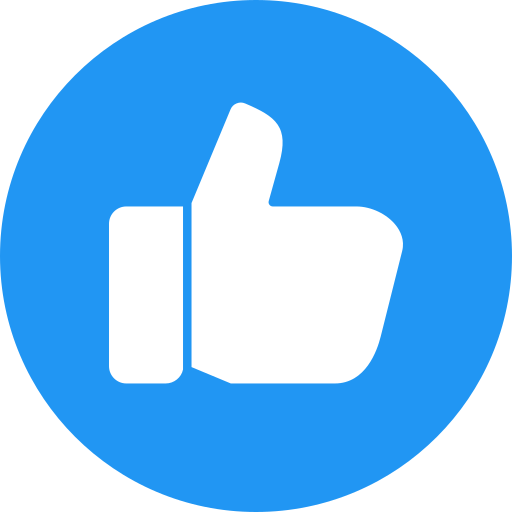
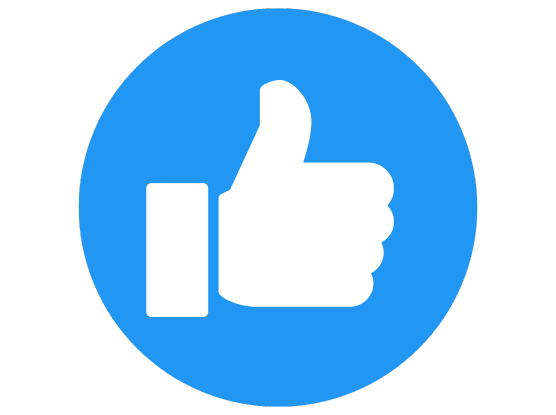
Dislikes working

diff --git a/website/sv/src/SVKasten/SVKasten.js b/website/sv/src/SVKasten/SVKasten.js
@@ -2,27 +2,69 @@ import React, { useState, useEffect } from 'react';
 import './SVKasten.css';
 import { db } from '../config/firebase';
 import { collection, addDoc, getDocs, updateDoc, doc, getDoc, setDoc, deleteDoc } from 'firebase/firestore';
-import { getAuth, signInAnonymously, onAuthStateChanged } from 'firebase/auth';
+import { getAuth } from 'firebase/auth';
 import Cookies from 'js-cookie';
 import { gsap } from 'gsap';
-/*import plane from 'Public/SVKasten/Paper.png';*/
 
 export default function SVKasten() {
-  const [text, setText] = useState('');
-  const [isPublic, setIsPublic] = useState(false);
-  const [messages, setMessages] = useState([]);
-  const [isAdminOrDeveloper, setIsAdminOrDeveloper] = useState(false);
-  const auth = getAuth();
+  const [text, setText] = useState(''); 
+  const [isPublic, setIsPublic] = useState(false); 
+  const [messages, setMessages] = useState([]); 
+  let [isAdminOrDeveloper, setIsAdminOrDeveloper] = useState(false); 
+  const [userLikes, setUserLikes] = useState({}); // Store user's like/dislike state
+  const auth = getAuth(); 
 
   useEffect(() => {
     const fetchMessages = async () => {
       const querySnapshot = await getDocs(collection(db, 'messages'));
       const fetchedMessages = querySnapshot.docs.map((doc) => ({ ...doc.data(), id: doc.id }));
       setMessages(fetchedMessages.filter(message => message.isPublic));
+  
+      if (auth.currentUser) {
+        const userId = auth.currentUser.uid;
+        await fetchUserLikes(userId, fetchedMessages.map(msg => msg.id));
+        await checkUserRoles(userId);
+      }
     };
-
+  
+    const checkUserRoles = async (userId) => {
+      const docRef = doc(db, "users", userId);
+      const docSnap = await getDoc(docRef);
+  
+      if (docSnap.exists()) {
+        const data = docSnap.data();
+        const isAdmin = data.isAdmin || false;
+        const isDeveloper = data.isDeveloper || false;
+        setIsAdminOrDeveloper(isAdmin || isDeveloper);
+      } else {
+        setIsAdminOrDeveloper(false);
+      }
+    };
+  
     fetchMessages();
-  }, []);
+  }, [auth.currentUser]);
+  const fetchUserLikes = async (userId, messageIds) => {
+    const likesSnapshot = await getDocs(collection(db, 'likes'));
+    const dislikesSnapshot = await getDocs(collection(db, 'dislikes'));
+    
+    let likesData = {};
+    
+    likesSnapshot.forEach((doc) => {
+      const { userId: likeUserId, messageId } = doc.data();
+      if (messageIds.includes(messageId) && likeUserId === userId) {
+        likesData[messageId] = 'liked';
+      }
+    });
+    
+    dislikesSnapshot.forEach((doc) => {
+      const { userId: dislikeUserId, messageId } = doc.data();
+      if (messageIds.includes(messageId) && dislikeUserId === userId) {
+        likesData[messageId] = 'disliked';
+      }
+    });
+
+    setUserLikes(likesData);
+  };
 
   const handleChange = (event) => {
     setText(event.target.value);
@@ -35,9 +77,10 @@ export default function SVKasten() {
           text: text,
           timestamp: new Date(),
           isPublic: isPublic,
-          likes: 0
+          likes: 0,
+          dislikes: 0,
         });
-        Cookies.set('message', text, {expires: 7});
+        Cookies.set('message', text, { expires: 7 });
 
         gsap.to('.button-36', {
           opacity: 0,
@@ -59,7 +102,7 @@ export default function SVKasten() {
             });
           }
         });
-    
+
         gsap.to('.plane', {
           y: '-500px',
           x: '70vw',
@@ -100,33 +143,120 @@ export default function SVKasten() {
     }
   };
 
-  const handleLike = async (messageId, currentLikes) => {
+  const handleLike = async (messageId) => {
     const userId = auth.currentUser?.uid;
-  
+    const likeRef = doc(db, 'likes', `${userId}_${messageId}`);
+    const dislikeRef = doc(db, 'dislikes', `${userId}_${messageId}`); 
+
     if (userId) {
-      const likeRef = doc(db, 'likes', `${userId}_${messageId}`);
       const likeDoc = await getDoc(likeRef);
-  
+      const dislikeDoc = await getDoc(dislikeRef);
+      const messageRef = doc(db, 'messages', messageId);
+      const message = messages.find(msg => msg.id === messageId);
+      
       if (likeDoc.exists()) {
-        alert('Du hast diese Nachricht bereits geliket.');
-        return;
+        await updateDoc(messageRef, { likes: message.likes - 1 });
+        await deleteDoc(likeRef);
+        setMessages((prevMessages) =>
+          prevMessages.map((msg) =>
+            msg.id === messageId
+              ? { ...msg, likes: msg.likes - 1 }
+              : msg
+          )
+        );
+      } else {
+        if (dislikeDoc.exists()) {
+          await updateDoc(messageRef, { dislikes: message.dislikes - 1 });
+          await deleteDoc(dislikeRef);
+          setMessages((prevMessages) =>
+            prevMessages.map((msg) =>
+              msg.id === messageId
+                ? { ...msg, dislikes: msg.dislikes - 1 }
+                : msg
+            )
+          );
+        }
+        await updateDoc(messageRef, { likes: message.likes + 1 });
+        await setDoc(likeRef, { userId, messageId });
+        setMessages((prevMessages) =>
+          prevMessages.map((msg) =>
+            msg.id === messageId
+              ? { ...msg, likes: msg.likes + 1 }
+              : msg
+          )
+        );
       }
   
-      const messageRef = doc(db, 'messages', messageId);
-      await updateDoc(messageRef, { likes: currentLikes + 1 });
-  
-      await setDoc(likeRef, { userId, messageId });
-  
-      setMessages(prevMessages =>
-        prevMessages.map(msg =>
-          msg.id === messageId ? { ...msg, likes: currentLikes + 1 } : msg
-        )
-      );
-    } else {
-      alert('Bitte melde dich an, um zu liken.');
+      gsap.to(`#like-${messageId}`, { 
+        scale: 1.2, 
+        duration: 0.2, 
+        ease: 'power1.out',
+        onComplete: () => {
+          document.querySelector(`#like-${messageId}`).src = likeDoc.exists() ? './not_liked2.png' : './like.png';
+          document.querySelector(`#dislike-${messageId}`).src = './not_liked.png';
+          gsap.to(`#like-${messageId}`, { scale: 1, duration: 0.2 });
+        }
+      });
     }
   };
 
+  const handleDislike = async (messageId) => {
+    const userId = auth.currentUser?.uid;
+    const dislikeRef = doc(db, 'dislikes', `${userId}_${messageId}`);
+    const likeRef = doc(db, 'likes', `${userId}_${messageId}`);
+
+    if (userId) {
+      const dislikeDoc = await getDoc(dislikeRef);
+      const likeDoc = await getDoc(likeRef);
+      const messageRef = doc(db, 'messages', messageId);
+      const message = messages.find(msg => msg.id === messageId);
+
+      if (dislikeDoc.exists()) {
+        await updateDoc(messageRef, { dislikes: message.dislikes - 1 });
+        await deleteDoc(dislikeRef);
+        setMessages((prevMessages) =>
+          prevMessages.map((msg) =>
+            msg.id === messageId
+              ? { ...msg, dislikes: msg.dislikes - 1 }
+              : msg
+          )
+        );
+      } else {
+        if (likeDoc.exists()) {
+          await updateDoc(messageRef, { likes: message.likes - 1 });
+          await deleteDoc(likeRef);
+          setMessages((prevMessages) =>
+            prevMessages.map((msg) =>
+              msg.id === messageId
+                ? { ...msg, likes: msg.likes - 1 }
+                : msg
+            )
+          );
+        }
+        await updateDoc(messageRef, { dislikes: message.dislikes + 1 });
+        await setDoc(dislikeRef, { userId, messageId });
+        setMessages((prevMessages) =>
+          prevMessages.map((msg) =>
+            msg.id === messageId
+              ? { ...msg, dislikes: msg.dislikes + 1 }
+              : msg
+          )
+        );
+      }
+
+      gsap.to(`#dislike-${messageId}`, { 
+        scale: 1.2, 
+        duration: 0.2, 
+        ease: 'power1.out',
+        onComplete: () => {
+          document.querySelector(`#dislike-${messageId}`).src = dislikeDoc.exists() ? './not_liked.png' : './dislike.png';
+          document.querySelector(`#like-${messageId}`).src = './not_liked2.png';
+          gsap.to(`#dislike-${messageId}`, { scale: 1, duration: 0.2 });
+        }
+      });
+    }
+  };
+  
   const handleDeleteMessage = async (messageId) => {
     try {
       await deleteDoc(doc(db, 'messages', messageId));
@@ -177,11 +307,8 @@ export default function SVKasten() {
               </label>
             </div>
             <div className='gap123'></div>
-            <button className="button-36" role="button" onClick={handleClick}>Senden
-              
-            </button>
+            <button className="button-36" role="button" onClick={handleClick}>Senden</button>
             <img src={`${process.env.PUBLIC_URL}/Paper.png`} alt='Paper Plane' className='plane' />
-
           </div>
   
           <div className="oeffentlich_nach">
@@ -189,17 +316,21 @@ export default function SVKasten() {
               Nachichten Keine ahnung
             </div>
             {messages
-              .sort((a, b) => b.likes - a.likes) // Sortiere nachihten nach wer die meisten likes hat ich habe keine ahnung was diese funktion ist zumgluck gibt es GOOGLE
+              .sort((a, b) => b.likes - a.likes)
               .map((message) => (
                 <div key={message.id} className="message1234">
                   <p>{message.text}</p>
                   <div className='likecon'>
-                    <button className='btslike' onClick={() => handleLike(message.id, message.likes)}>
-                      <img src='./like.png' className='like' alt='Like'/> {message.likes}
+                    <button className='btslike' onClick={() => handleLike(message.id)}>
+                      <img id={`like-${message.id}`} src={userLikes[message.id] === 'liked' ? './like.png' : './not_liked2.png'} className='like2' alt='Like'/> {message.likes}
                     </button>
-                    {isAdminOrDeveloper && (
-                      <button onClick={() => handleDeleteMessage(message.id)}>Löschen</button>
-                    )}
+                    <button className='btslike' onClick={() => handleDislike(message.id)}>
+                      <img id={`dislike-${message.id}`} src={userLikes[message.id] === 'disliked' ? './dislike.png' : './not_liked.png'} className='dislike' alt='Dislike'/> {message.dislikes || 0}
+                    </button>
+                    {console.log("isAdminOrDeveloper:", isAdminOrDeveloper)} 
+{isAdminOrDeveloper && (
+  <button onClick={() => handleDeleteMessage(message.id)}>Löschen</button>
+)}
                   </div>
                 </div>
               ))}
@@ -208,4 +339,4 @@ export default function SVKasten() {
       </div>
     </>
   );
-}  
+}

diff --git a/website/sv/src/SVKasten/SVKasten.css b/website/sv/src/SVKasten/SVKasten.css
@@ -71,10 +71,6 @@
     transform: translate(20px);
     height: 50%;
 }
-.like {
-    height: 40px !important;
-    width: 40px !important;
-}
 .head {
     font-size: 2.1rem;
     font-weight: 800;
@@ -315,4 +311,22 @@ label > input {
     .input_real {
         width: 100% !important;
     }
+}
+.dislike {
+    height: 45px;
+}
+.likecon {
+    display: flex;
+    margin-bottom: 5px;
+}
+.likecon > img {
+    height: 40px !important;
+    width: 40px !important;
+}
+.like2 {
+    width: 60px;
+    height: 44px;
+}
+.like {
+    width: 30px !important;
 }
